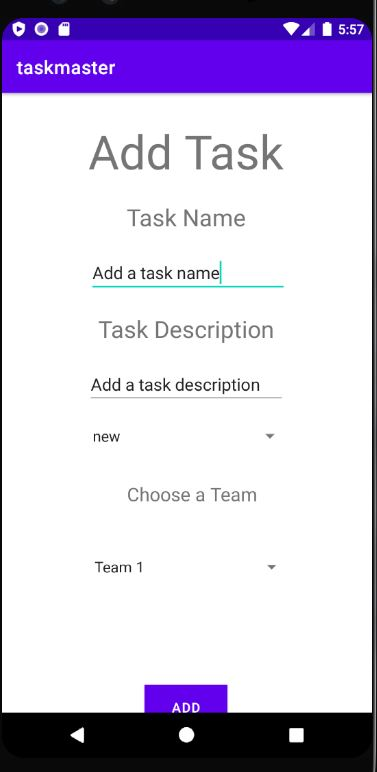
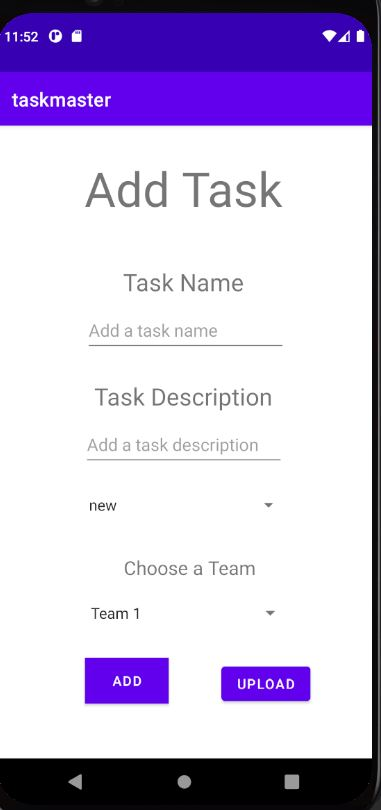
added S3 storage

diff --git a/app/src/main/java/com/example/taskmaster/AddTaskActivity.java b/app/src/main/java/com/example/taskmaster/AddTaskActivity.java
@@ -1,17 +1,30 @@
 package com.example.taskmaster;
 
 //import androidx.annotation.NonNull;
+import androidx.activity.result.ActivityResult;
+import androidx.activity.result.ActivityResultCallback;
+import androidx.activity.result.ActivityResultLauncher;
+import androidx.activity.result.contract.ActivityResultContracts;
+import androidx.annotation.RequiresApi;
 import androidx.appcompat.app.AppCompatActivity;
 //import androidx.recyclerview.widget.RecyclerView;
 
 //import android.content.Context;
 //import android.net.ConnectivityManager;
+import android.annotation.SuppressLint;
+import android.app.Activity;
+import android.content.Intent;
+import android.net.Uri;
+import android.os.Build;
 import android.os.Bundle;
 //import android.os.Handler;
 //import android.os.Looper;
 //import android.os.Message;
+import android.os.Environment;
+import android.os.FileUtils;
 import android.util.Log;
 //import android.view.View;
+import android.view.View;
 import android.widget.ArrayAdapter;
 import android.widget.Button;
 import android.widget.EditText;
@@ -27,7 +40,13 @@ import com.amplifyframework.core.Amplify;
 import com.amplifyframework.datastore.generated.model.Task;
 import com.amplifyframework.datastore.generated.model.Team;
 
+import java.io.File;
+import java.io.FileOutputStream;
+import java.io.IOException;
+import java.io.InputStream;
+import java.text.SimpleDateFormat;
 import java.util.ArrayList;
+import java.util.Date;
 import java.util.HashMap;
 import java.util.List;
 import java.util.Map;
@@ -37,7 +56,10 @@ public class AddTaskActivity extends AppCompatActivity {
     private Spinner teamSpinner;
     private final String[] state = new String[]{"new", "assigned", "in progress", "complete"};
     private Map<String, Team> teams =  new HashMap<>();
-//    private RecyclerView recyclerView;
+    private static final String TAG = "UploadFileMain";
+    private String fileType;
+    private String fileName;
+    private File uploadFile;
 
 
     @Override
@@ -73,20 +95,23 @@ public class AddTaskActivity extends AppCompatActivity {
 
             switch(teamSpinner.getSelectedItem().toString()){
                 case "Team 1":
-                    Task task = Task.builder().title(taskTitleInput.getText().toString()).body(taskDescriptionInput.getText().toString()).state(spinner.getSelectedItem().toString()).team(teams.get("Team 1")).build();
+                    uploadFile();
+                    Task task = Task.builder().title(taskTitleInput.getText().toString()).body(taskDescriptionInput.getText().toString()).state(spinner.getSelectedItem().toString()).team(teams.get("Team 1")).fileName(fileName).build();
                     saveToAPI(task);
                     saveToDatastore(task);
                     Log.i("add to team ", "onCreate: "+task.getTeam().getName());
 
                     break;
                 case "Team 2":
-                    Task task2 = Task.builder().title(taskTitleInput.getText().toString()).body(taskDescriptionInput.getText().toString()).state(spinner.getSelectedItem().toString()).team(teams.get("Team 2")).build();
+                    uploadFile();
+                    Task task2 = Task.builder().title(taskTitleInput.getText().toString()).body(taskDescriptionInput.getText().toString()).state(spinner.getSelectedItem().toString()).team(teams.get("Team 2")).fileName(fileName).build();
                     saveToAPI(task2);
                     saveToDatastore(task2);
                     Log.i("add to team ", "onCreate: "+task2.getTeam().getName());
                     break;
                 case "Team 3":
-                    Task task3 = Task.builder().title(taskTitleInput.getText().toString()).body(taskDescriptionInput.getText().toString()).state(spinner.getSelectedItem().toString()).team(teams.get("Team 3")).build();
+                    uploadFile();
+                    Task task3 = Task.builder().title(taskTitleInput.getText().toString()).body(taskDescriptionInput.getText().toString()).state(spinner.getSelectedItem().toString()).team(teams.get("Team 3")).fileName(fileName).build();
                     saveToAPI(task3);
                     saveToDatastore(task3);
                     Log.i("add to team ", "onCreate: "+task3.getTeam().getName());
@@ -96,6 +121,10 @@ public class AddTaskActivity extends AppCompatActivity {
 
                 Toast toast = Toast.makeText(getApplicationContext(),"Submitted!", Toast.LENGTH_SHORT);
                 toast.show();
+        });
+
+        findViewById(R.id.uploadBtn).setOnClickListener(view -> {
+            getFileFromDevice();
         });
     }
 
@@ -134,5 +163,62 @@ public class AddTaskActivity extends AppCompatActivity {
                 error -> Log.e("Tutorial", "Could not save item to DataStore", error)
         );
     }
+
+    private void uploadFile(){
+        Amplify.Storage.uploadFile(
+                fileName,
+                uploadFile,
+                success -> {
+                    Log.i(TAG, "uploadFileToS3: succeeded " + success.getKey());
+                },
+                error -> {
+                    Log.e(TAG, "uploadFileToS3: failed " + error.toString());
+                }
+        );
+    }
+
+    private void getFileFromDevice() {
+        Intent intent = new Intent(Intent.ACTION_GET_CONTENT);
+        intent.setType("*/*");
+        intent = Intent.createChooser(intent, "Choose a File");
+        activityResultLauncher.launch(intent);
+    }
+
+    ActivityResultLauncher<Intent> activityResultLauncher = registerForActivityResult(
+            new ActivityResultContracts.StartActivityForResult(),
+            new ActivityResultCallback<ActivityResult>() {
+                @SuppressLint("SimpleDateFormat")
+                @RequiresApi(api = Build.VERSION_CODES.Q)
+                @Override
+                public void onActivityResult(ActivityResult result) {
+                    if (result.getResultCode() == Activity.RESULT_OK){
+                        Intent data = result.getData();
+                        Uri uri = data.getData();
+                        String src = uri.getPath();
+
+                        fileType = getContentResolver().getType(uri);
+                        fileName = new SimpleDateFormat("yyMMddHHmmssZ").format(new Date())+"." + fileType.split("/")[1];
+//                        Log.i("URIData", "onActivityResult: "+ uri);
+//                        Log.i("fileTypeData", "onActivityResult: "+ fileType);
+//                        Log.i("extension", "onActivityResult: "+ src);
+
+                        File source = new File(src);
+                        String file = uri.getLastPathSegment();
+                        File destination = new File(Environment.getExternalStorageDirectory().getAbsolutePath()+"/CustomFolder"+file);
+                        uploadFile = new File(getApplicationContext().getFilesDir(), "uploadFile");
+
+                        try {
+//                    InputStream in = new FileInputStream(source);
+//                    OutputStream out = new FileOutputStream(destination);
+//                    FileUtils.copy(in, out);
+                            InputStream inputStream = getContentResolver().openInputStream(data.getData());
+                            FileUtils.copy(inputStream, new FileOutputStream(uploadFile));
+                        } catch (IOException e) {
+                            e.printStackTrace();
+                        }
+
+                    }
+                }
+            });
 
 }

diff --git a/app/src/main/java/com/example/taskmaster/MainActivity.java b/app/src/main/java/com/example/taskmaster/MainActivity.java
@@ -62,7 +62,7 @@ import java.util.Objects;
 
 public class MainActivity extends AppCompatActivity {
 
-    private static final String TAG = "UploadFileMain";
+
     private ArrayList<Task> tasks = new ArrayList<>();
     private RecyclerView recyclerView;
     private TaskAdapter taskAdapter;
@@ -100,14 +100,7 @@ public class MainActivity extends AppCompatActivity {
 
 
 
-        findViewById(R.id.uploadBtn).setOnClickListener(new View.OnClickListener() {
-            @Override
-            public void onClick(View view) {
-                getFileFromDevice();
-//                uploadFile();
-                Log.i(">>>>>>>>>", "onCreate: "+getApplicationContext().getFilesDir());
-            }
-        });
+
         handler = new Handler(Looper.getMainLooper(),
                 message -> {
                     Objects.requireNonNull(recyclerView.getAdapter()).notifyDataSetChanged();
@@ -134,56 +127,6 @@ public class MainActivity extends AppCompatActivity {
             }
         });
     }
-
-    private void getFileFromDevice() {
-            Intent intent = new Intent(Intent.ACTION_GET_CONTENT);
-        intent.setType("*/*");
-        intent = Intent.createChooser(intent, "Choose a File");
-        activityResultLauncher.launch(intent);
-    }
-
-    ActivityResultLauncher<Intent> activityResultLauncher = registerForActivityResult(
-            new ActivityResultContracts.StartActivityForResult(),
-            new ActivityResultCallback<ActivityResult>() {
-        @RequiresApi(api = Build.VERSION_CODES.Q)
-        @Override
-        public void onActivityResult(ActivityResult result) {
-            if (result.getResultCode() == Activity.RESULT_OK){
-                Intent data = result.getData();
-                Uri uri = data.getData();
-                String src = uri.getPath();
-
-                TextView textView = findViewById(R.id.textView14);
-                textView.setText(src);
-
-                File source = new File(src);
-                String fileName = uri.getLastPathSegment();
-                File destination = new File(Environment.getExternalStorageDirectory().getAbsolutePath()+"/CustomFolder"+fileName);
-
-                File uploadFile = new File(getApplicationContext().getFilesDir(), "uploadFile");
-
-                try {
-//                    InputStream in = new FileInputStream(source);
-//                    OutputStream out = new FileOutputStream(destination);
-//                    FileUtils.copy(in, out);
-                    InputStream inputStream = getContentResolver().openInputStream(data.getData());
-                    FileUtils.copy(inputStream, new FileOutputStream(uploadFile));
-                } catch (IOException e) {
-                    e.printStackTrace();
-                }
-                Amplify.Storage.uploadFile(
-                        "test",
-                        uploadFile,
-                        success -> {
-                            Log.i(TAG, "uploadFileToS3: succeeded " + success.getKey());
-                        },
-                        error -> {
-                            Log.e(TAG, "uploadFileToS3: failed " + error.toString());
-                        }
-                );
-            }
-        }
-    });
 
     @SuppressLint("SetTextI18n")
     @Override
@@ -243,6 +186,7 @@ public class MainActivity extends AppCompatActivity {
                 intent.putExtra("taskName", teamTasks.get(position).getTitle());
                 intent.putExtra("taskBody", teamTasks.get(position).getBody());
                 intent.putExtra("taskState", teamTasks.get(position).getState());
+                intent.putExtra("taskFileName", teamTasks.get(position).getFileName());
                 startActivity(intent);
             }
 

diff --git a/app/src/main/java/com/example/taskmaster/TaskDetailsActivity.java b/app/src/main/java/com/example/taskmaster/TaskDetailsActivity.java
@@ -1,12 +1,42 @@
 package com.example.taskmaster;
 
+import androidx.activity.result.ActivityResult;
+import androidx.activity.result.ActivityResultCallback;
+import androidx.activity.result.ActivityResultLauncher;
+import androidx.activity.result.contract.ActivityResultContracts;
+import androidx.annotation.RequiresApi;
 import androidx.appcompat.app.AppCompatActivity;
+import androidx.core.text.HtmlCompat;
 
+import android.app.Activity;
 import android.content.Intent;
+import android.graphics.BitmapFactory;
+import android.net.Uri;
+import android.os.Build;
 import android.os.Bundle;
+import android.os.Environment;
+import android.os.FileUtils;
+import android.text.Html;
+import android.text.method.LinkMovementMethod;
+import android.util.Log;
+import android.view.View;
+import android.widget.ImageView;
 import android.widget.TextView;
 
+import com.amplifyframework.core.Amplify;
+
+import java.io.File;
+import java.io.FileOutputStream;
+import java.io.IOException;
+import java.io.InputStream;
+import java.net.URL;
+import java.nio.file.Files;
+
 public class TaskDetailsActivity extends AppCompatActivity {
+
+    private String fileName;
+    private URL url;
+
 
     @Override
     protected void onCreate(Bundle savedInstanceState) {
@@ -19,8 +49,51 @@ public class TaskDetailsActivity extends AppCompatActivity {
         TextView textState = findViewById(R.id.taskState);
         TextView textDescription = findViewById(R.id.taskBody);
 
+        fileName = intent.getExtras().getString("taskFileName");
+
+        Log.i("FIlE_NAME", "onCreate: "+fileName);
         textTitle.setText(intent.getExtras().getString("taskName"));
         textState.setText( intent.getExtras().getString("taskState"));
         textDescription.setText( intent.getExtras().getString("taskBody"));
+
+        Amplify.Storage.getUrl(
+                fileName,
+                result -> {
+                    Log.i("MyAmplifyApp", "Successfully generated: " + result.getUrl());
+                    url= result.getUrl();
+                },
+                error -> Log.e("MyAmplifyApp", "URL generation failure", error)
+        );
+
+        ImageView imageView = findViewById(R.id.imageView);
+        Amplify.Storage.downloadFile(
+                fileName,
+                new File(getApplicationContext().getFilesDir() +"/"+ fileName),
+                result -> {
+                    Log.i("MyAmplifyApp", "Successfully downloaded: " + result.getFile().getPath());
+                    String fileType = null;
+
+                    try {
+                        fileType = Files.probeContentType(result.getFile().toPath());
+                    } catch (IOException e) {
+                        e.printStackTrace();
+                    }
+
+                    if (fileType.split("/")[0].equals("image")){
+                        imageView.setImageBitmap(BitmapFactory.decodeFile(result.getFile().getPath()));
+                    }
+                    else {
+                        String linkedText = String.format("<a href=\"%s\">download File</a> ", url);
+
+                        TextView test = findViewById(R.id.taskLink);
+                        test.setText(Html.fromHtml(linkedText, HtmlCompat.FROM_HTML_MODE_LEGACY));
+                        test.setMovementMethod(LinkMovementMethod.getInstance());
+                    }
+                    },
+                error -> Log.e("MyAmplifyApp",  "Download Failure ",error)
+        );
+
     }
+
+
 }

diff --git a/README.md b/README.md
@@ -46,3 +46,6 @@ Daily change log:
 24th of August, 2021: Ensured that my application follows Google’s guidelines, and Built an APK for my application (you can find it at apk folder)
 
 24th of August, 2021: Added in user login and sign up flows to my application, using Cognito’s pre-built UI as appropriate. 
+
+26th of August, 2021: Added the ability for our app to upload files and store it on AWS S3 and assign it to specific task, also added the ability to view the file that has been uploaded when click on a task in task details page.
+
